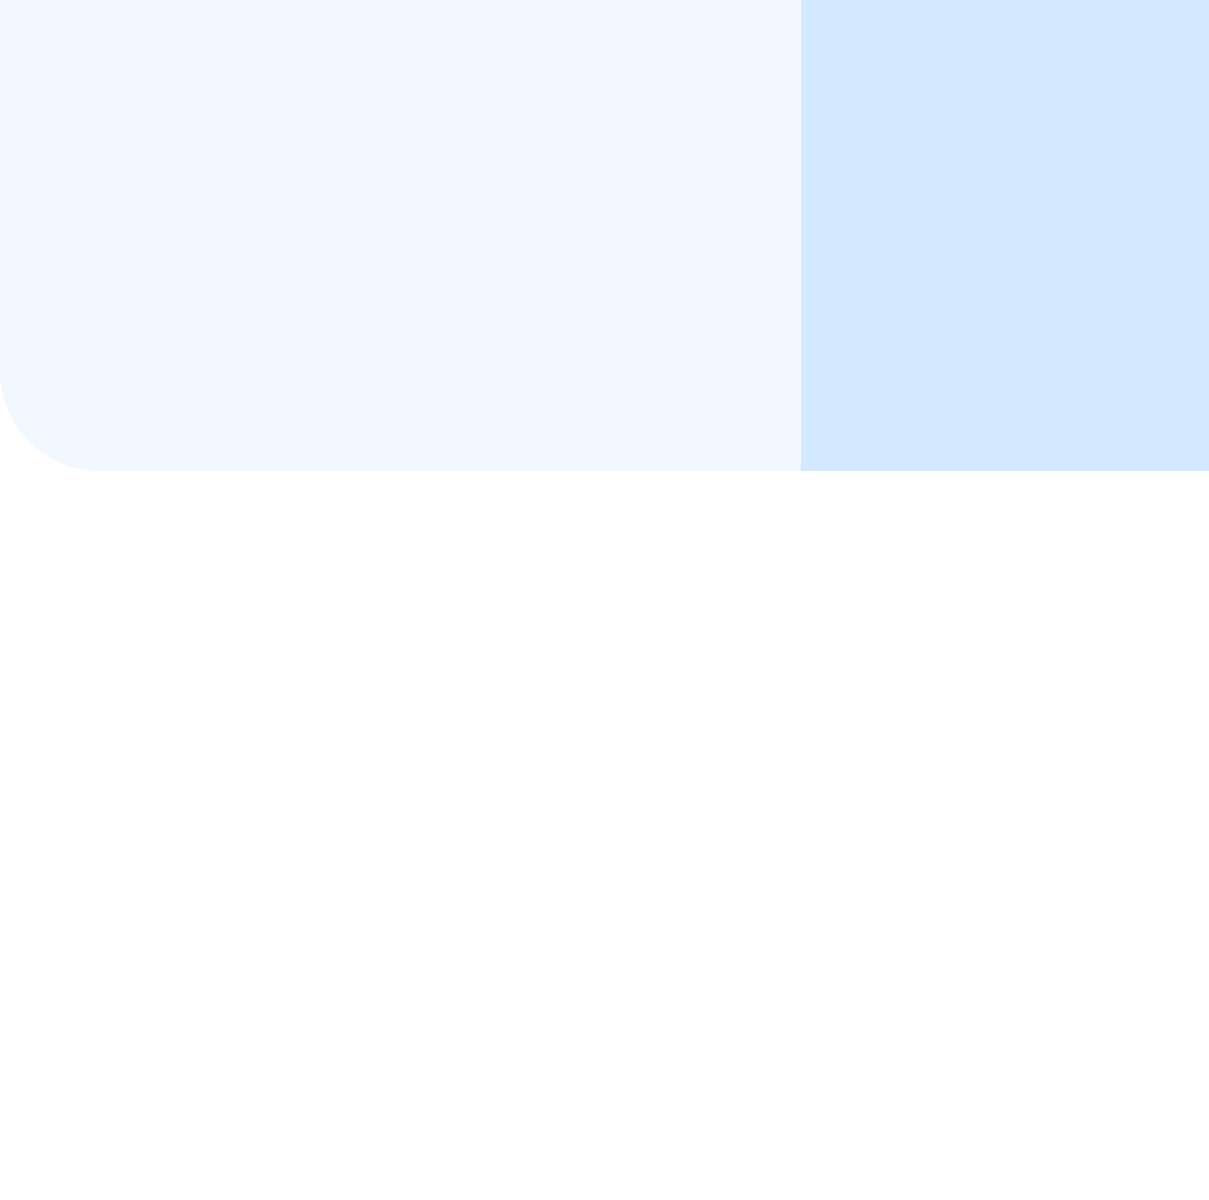
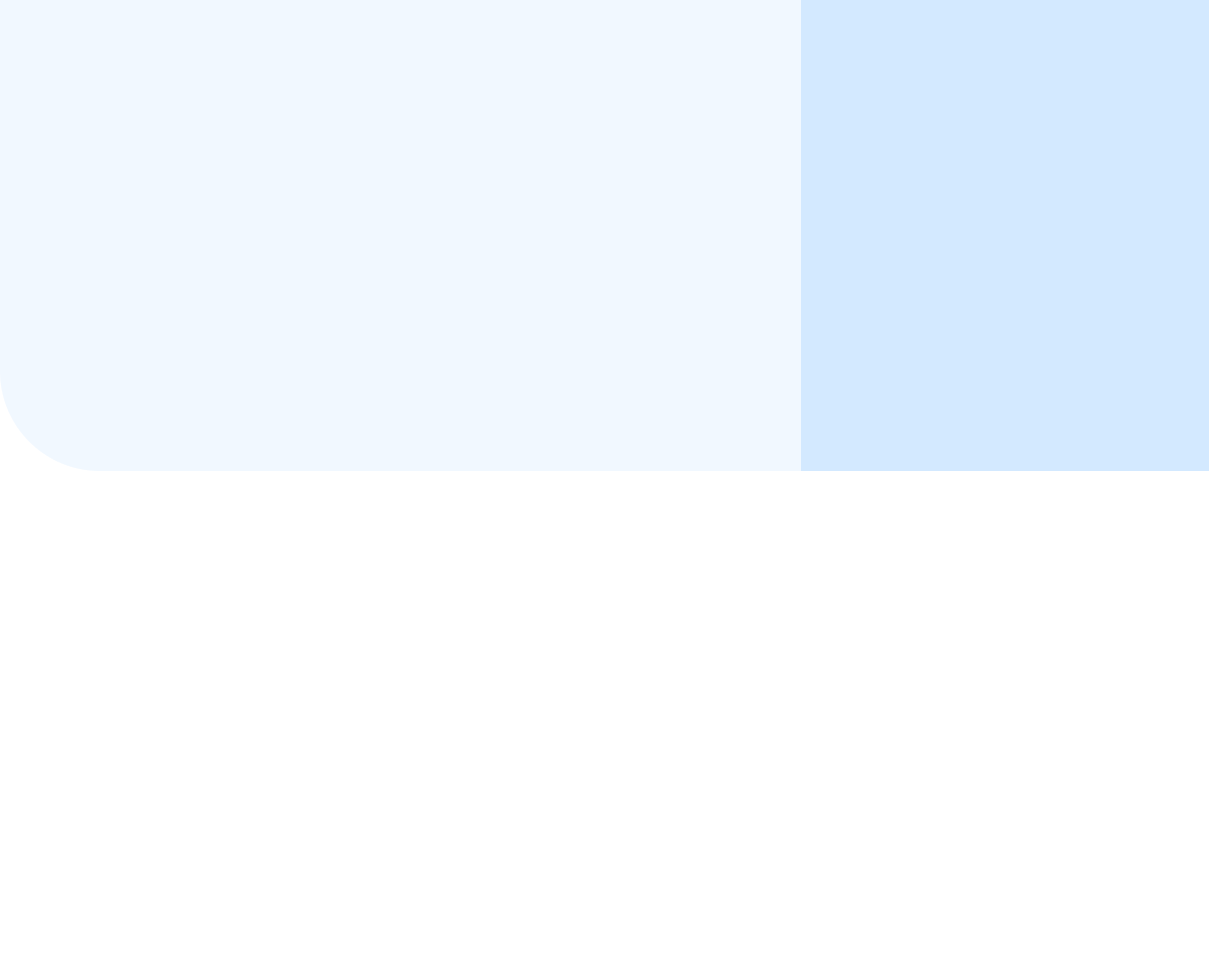
bg

Changed region(s): [[0.6427, 0.3931, 1.0, 0.5141]]

diff --git a/resources/views/sewa_buku/layouts/header.blade.php b/resources/views/sewa_buku/layouts/header.blade.php
@@ -88,7 +88,9 @@
     </aside>
 
     <!-- Main Content -->
-    <div class="flex-1 p-6">
-        @yield('content')
-    </div>
+<div class="flex-1" style="background-image: url('{{ asset('images/bg.png') }}'); background-size: cover; background-position: center; background-color: white;">
+
+    @yield('content')
+</div>
+
 </div>

diff --git a/resources/views/sewa_buku/user/buku/index_buku.blade.php b/resources/views/sewa_buku/user/buku/index_buku.blade.php
@@ -2,7 +2,7 @@
 
 
 @section('content')
-<div class="container mx-auto mt-10">
+<div class="container mx-auto m-10" >
     <h1 class="text-3xl font-bold text-center mb-8">Daftar Buku</h1>
 
     <!-- Filter dan Search -->
